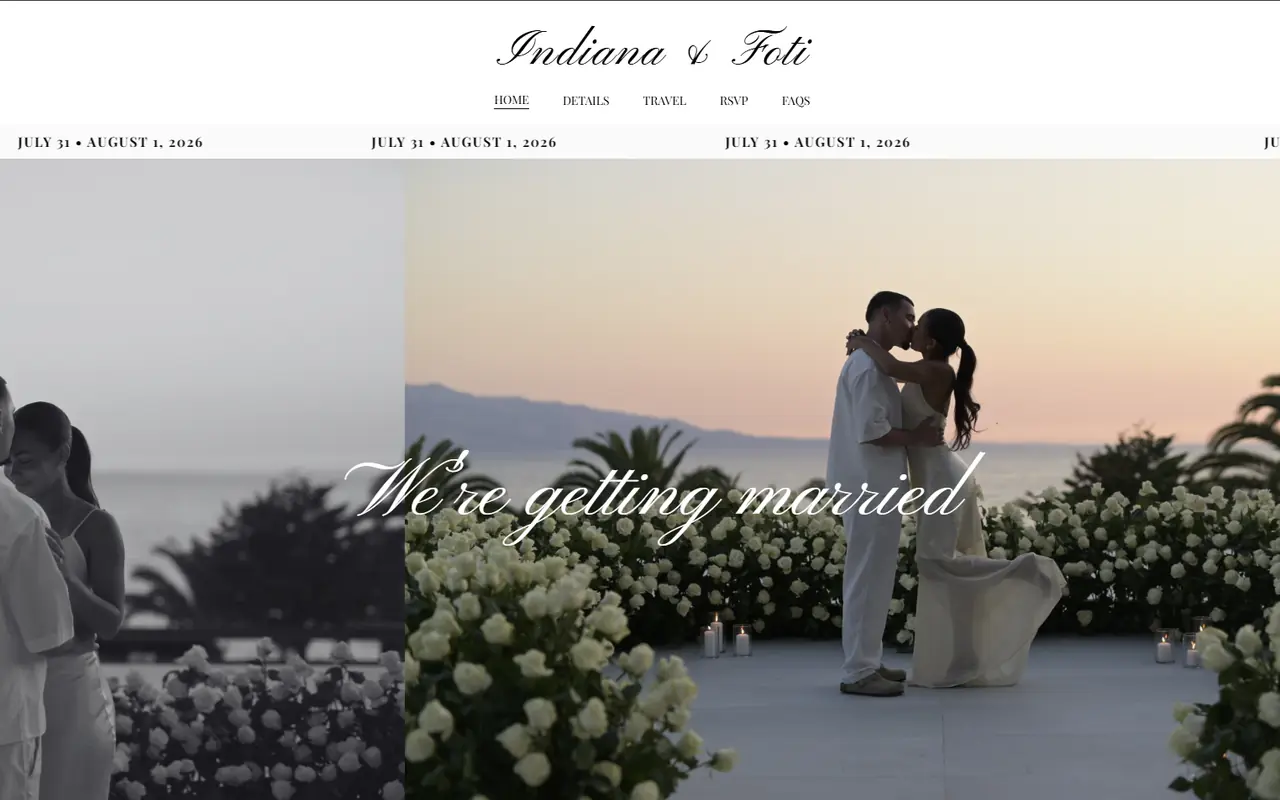
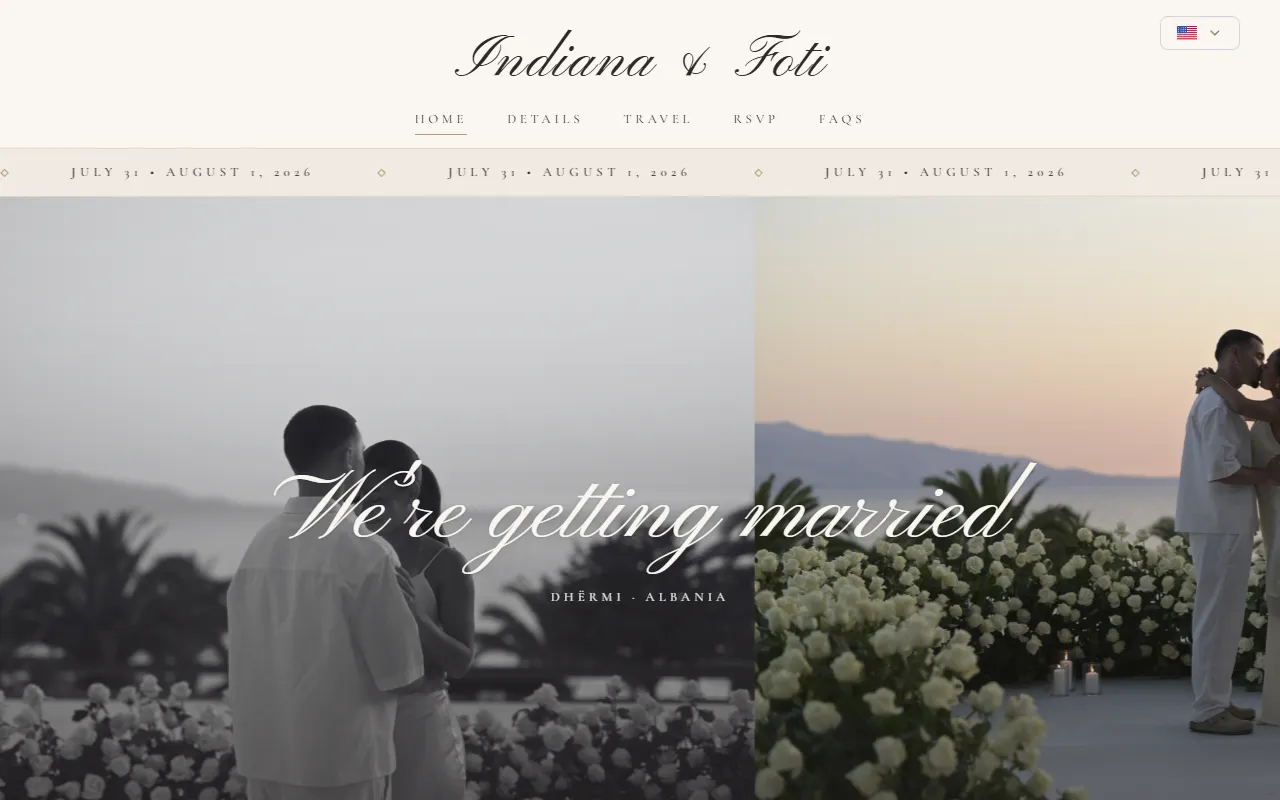
update work section

diff --git a/src/routes/work.tsx b/src/routes/work.tsx
@@ -69,17 +69,38 @@ export default function WorkPage() {
               </Link>
             </div>
           </div>
-          <div
-            className="fc-case__frame"
-            style={{ "--vt": `work-${item.slug}` } as CSSProperties}
-          >
-            <span className="fc-work__chrome" aria-hidden="true">
-              <i />
-              <i />
-              <i />
-              <span>{item.host}</span>
-            </span>
-            <img src={item.image} alt={item.alt} width={1280} height={800} />
+          {/* The same site on a desktop and on a phone. The desktop frame keeps the
+              card's view-transition name, so it still morphs in from the Work list. */}
+          <div className="fc-devices">
+            <figure className="fc-devices__desktop">
+              <div
+                className="fc-case__frame"
+                style={{ "--vt": `work-${item.slug}` } as CSSProperties}
+              >
+                <span className="fc-work__chrome" aria-hidden="true">
+                  <i />
+                  <i />
+                  <i />
+                  <span>{item.host}</span>
+                </span>
+                <img src={item.image} alt={item.alt} width={1280} height={800} />
+              </div>
+              <figcaption>Desktop</figcaption>
+            </figure>
+            <figure className="fc-devices__phone">
+              <div className="fc-phone">
+                <span className="fc-phone__notch" aria-hidden="true" />
+                <img
+                  src={item.mobileImage}
+                  alt={item.mobileAlt}
+                  width={390}
+                  height={844}
+                  loading="lazy"
+                  decoding="async"
+                />
+              </div>
+              <figcaption>Mobile</figcaption>
+            </figure>
           </div>
         </div>
       </section>

diff --git a/src/styles/site.css b/src/styles/site.css
@@ -1440,7 +1440,6 @@ section[id] {
   border: 1px solid #334155;
 }
 .fc-case__frame {
-  margin-top: clamp(36px, 5vw, 56px);
   border: 1px solid var(--dark-rule);
   border-radius: 12px;
   overflow: hidden;
@@ -1458,6 +1457,75 @@ section[id] {
   object-fit: cover;
   object-position: top;
 }
+/* ---------- device preview: desktop frame with a phone overlapping its corner ---------- */
+.fc-devices {
+  position: relative;
+  margin-top: clamp(36px, 5vw, 56px);
+}
+.fc-devices figure {
+  margin: 0;
+}
+.fc-devices figcaption {
+  margin-top: 12px;
+  font-family: var(--f-mono);
+  font-size: 11.5px;
+  letter-spacing: 0.1em;
+  text-transform: uppercase;
+  color: var(--on-dark-3);
+}
+.fc-devices__desktop {
+  width: 84%;
+}
+.fc-devices__phone {
+  position: absolute;
+  right: 0;
+  bottom: 0;
+  width: clamp(120px, 22%, 250px);
+  text-align: center;
+}
+/* A plain phone: dark bezel, rounded corners, a small notch. */
+.fc-phone {
+  position: relative;
+  padding: 7px;
+  border: 1px solid #334155;
+  border-radius: clamp(24px, 3.4vw, 40px);
+  background: var(--ink);
+  box-shadow:
+    0 30px 60px -20px rgba(2, 6, 23, 0.7),
+    0 0 0 1px rgba(255, 255, 255, 0.04) inset;
+}
+.fc-phone img {
+  display: block;
+  width: 100%;
+  height: auto;
+  aspect-ratio: 390 / 844;
+  object-fit: cover;
+  object-position: top;
+  border-radius: clamp(18px, 2.7vw, 33px);
+}
+.fc-phone__notch {
+  position: absolute;
+  top: 14px;
+  left: 50%;
+  translate: -50% 0;
+  width: 30%;
+  height: clamp(10px, 1.4vw, 18px);
+  border-radius: 999px;
+  background: var(--ink);
+  z-index: 1;
+}
+@media (max-width: 640px) {
+  .fc-devices__desktop {
+    width: 88%;
+  }
+  .fc-devices__phone {
+    width: 34%;
+  }
+  .fc-devices figcaption {
+    font-size: 10.5px;
+  }
+}
+
 .fc-case__body {
   display: grid;
   grid-template-columns: minmax(0, 1.4fr) minmax(0, 1fr);

diff --git a/src/content/site.ts b/src/content/site.ts
@@ -4,6 +4,8 @@
 
 import weddingImg from "../../assets/hero/wedding.webp";
 import portfolioImg from "../../assets/hero/portfolio.webp";
+import weddingMobileImg from "../../assets/hero/wedding-mobile.webp";
+import portfolioMobileImg from "../../assets/hero/portfolio-mobile.webp";
 import type { PackageId } from "../components/hero/heroContent";
 
 export const SITE = {
@@ -41,6 +43,9 @@ export interface WorkItem {
   host: string;
   image: string;
   alt: string;
+  /** The same site on a phone (390×844 screenshot), for the project page's device preview. */
+  mobileImage: string;
+  mobileAlt: string;
   platform: string;
   /** What's on the site. From your original project notes. */
   features: string[];
@@ -60,6 +65,8 @@ export const WORK = {
       host: "indianafoti.com",
       image: weddingImg,
       alt: "Wedding website with a couple on a seaside terrace at sunset",
+      mobileImage: weddingMobileImg,
+      mobileAlt: "The wedding website on a phone: names, dates and the \"We're getting married\" photo",
       platform: "Custom build",
       features: [
         "Weekend itinerary",
@@ -79,6 +86,8 @@ export const WORK = {
       host: "foticeci.com",
       image: portfolioImg,
       alt: "Dark portfolio website for software engineer Foti Ceci",
+      mobileImage: portfolioMobileImg,
+      mobileAlt: "The portfolio on a phone: a dark page introducing Foti Ceci as a software engineer",
       platform: "Custom build",
       features: [
         "Project showcase",
